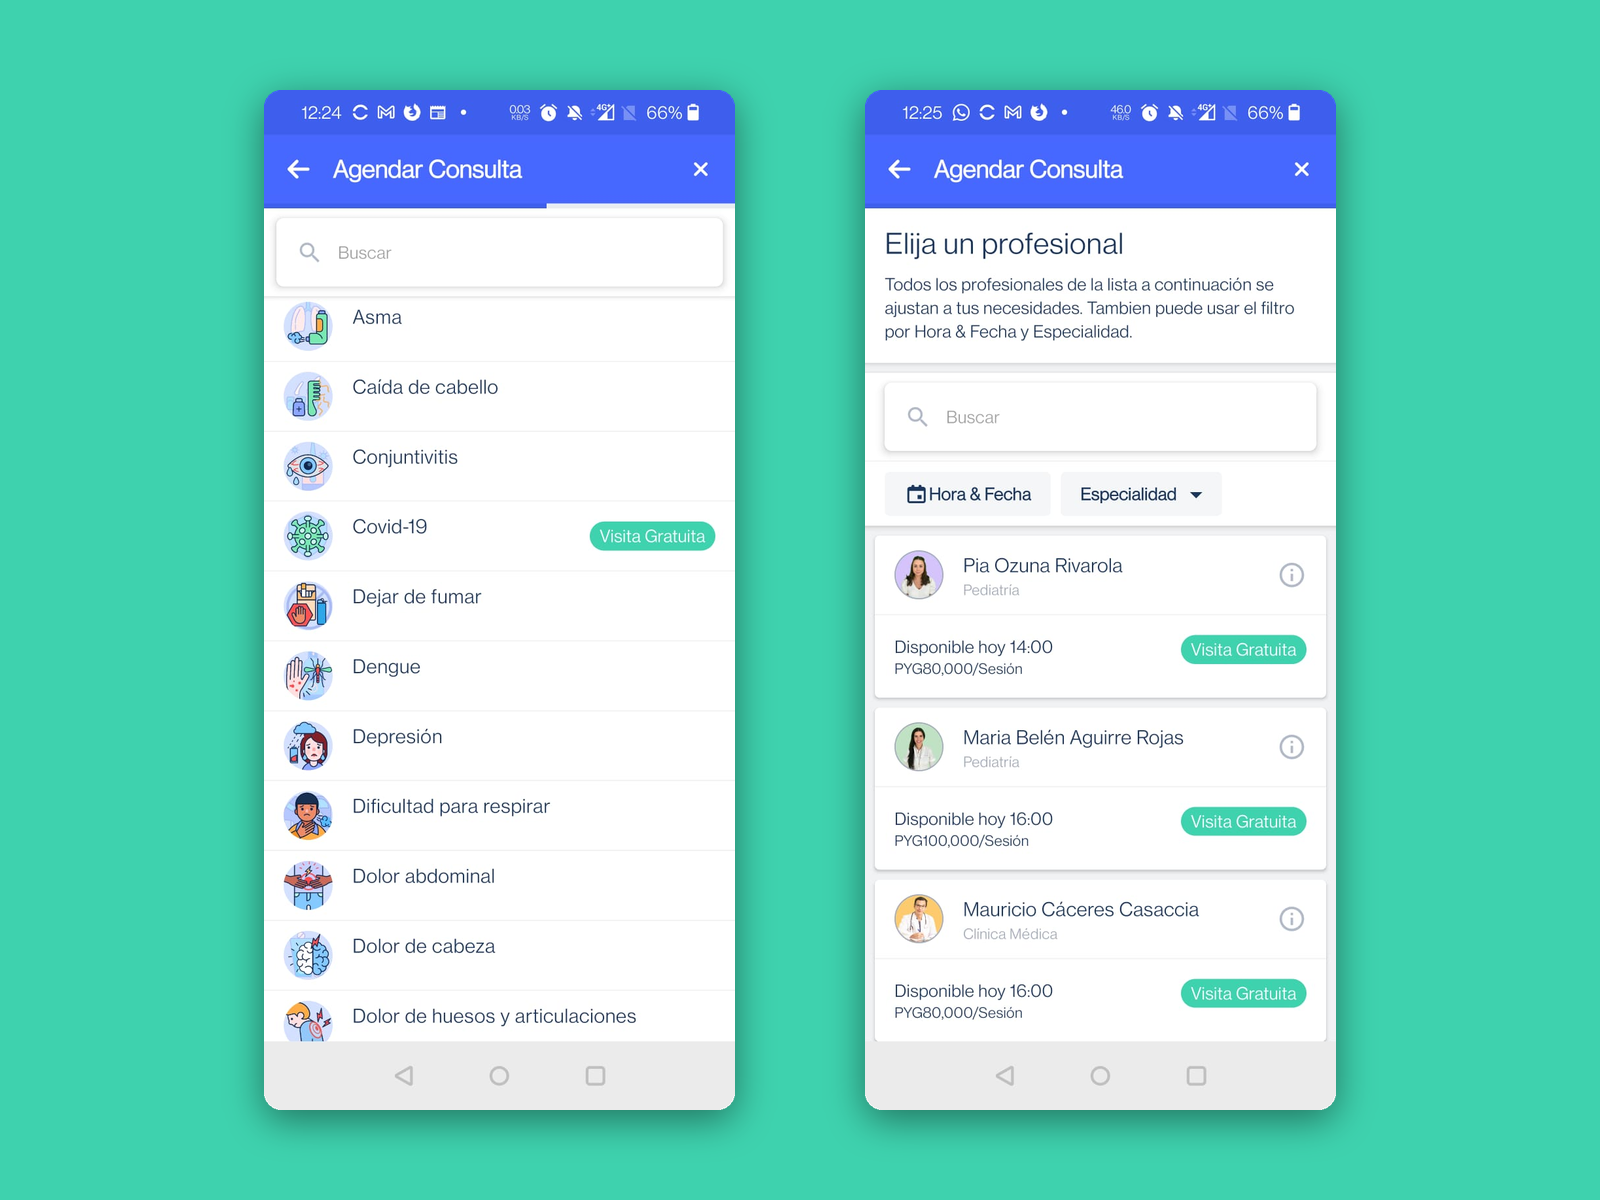
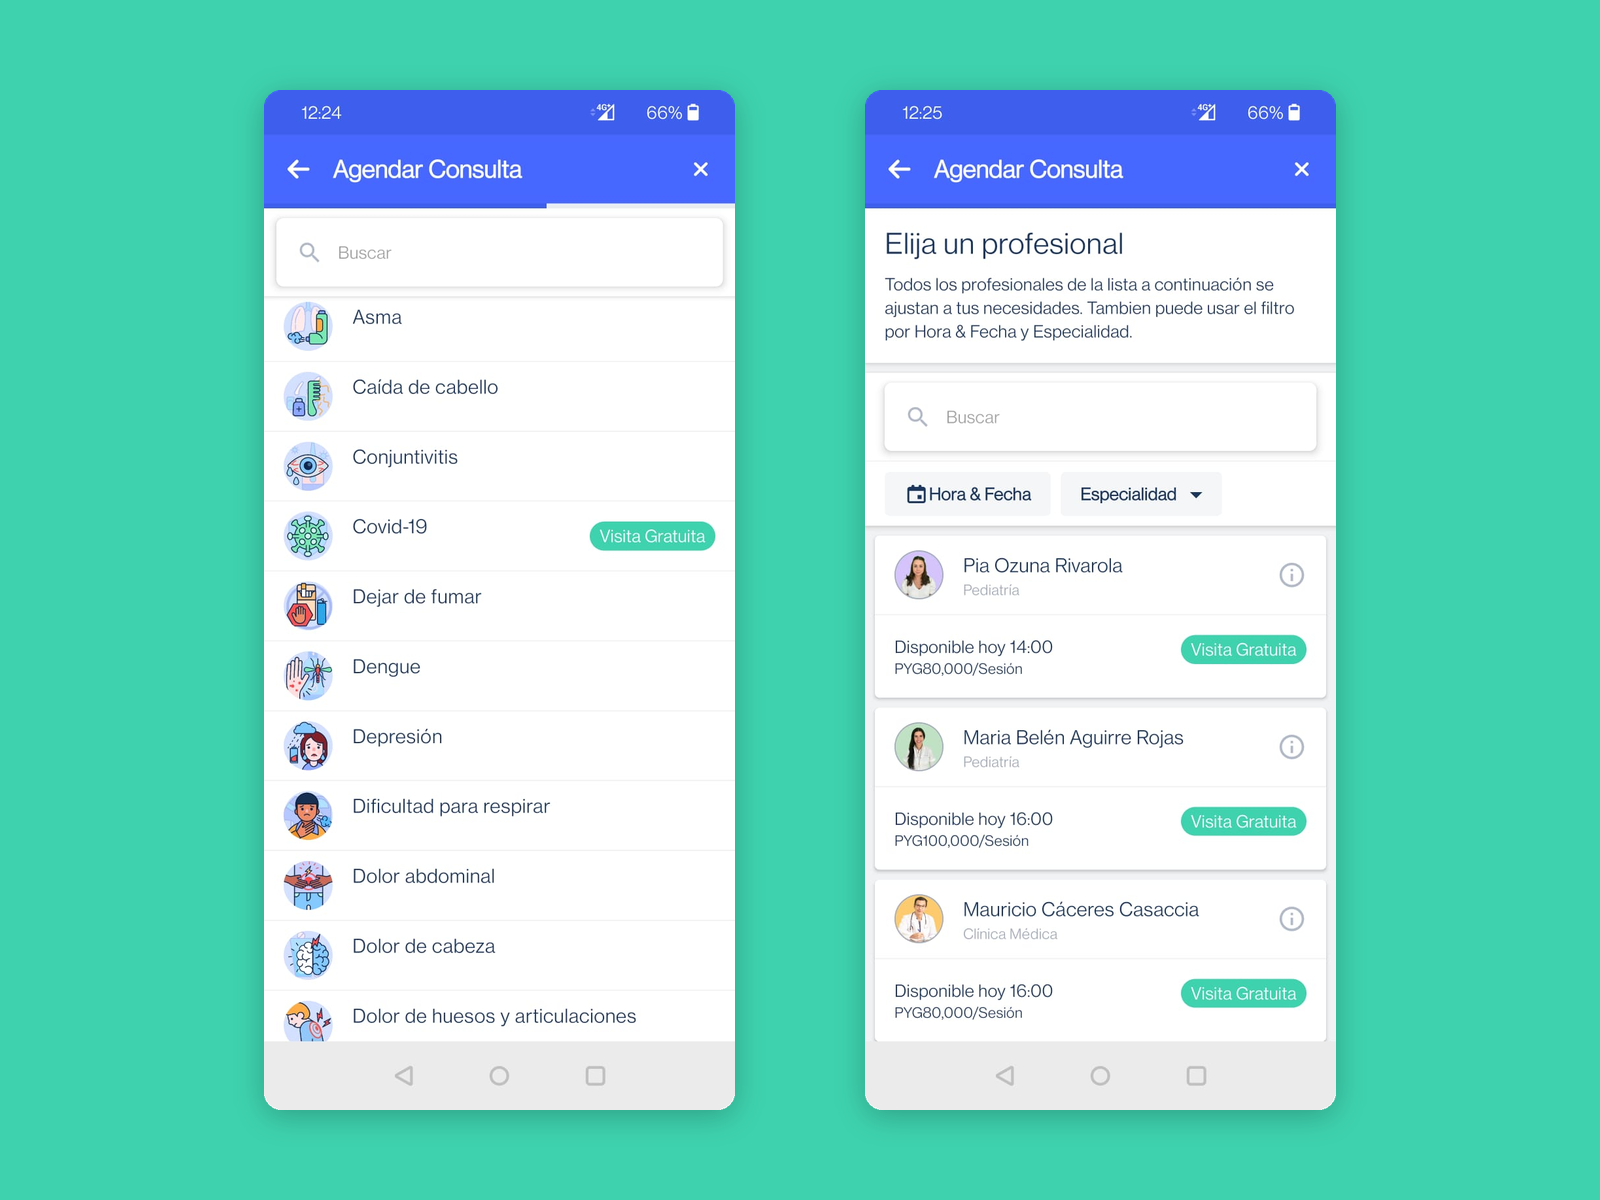
Clinix: your copy throughout, cleaner screens, paired figures
Every section now carries your wording — overview, problem, outcome, goals,
research, discoveries, decisions and the closing section — and the blue and
green review highlighting is gone with it. "Click tests" becomes the standard
"usability tests". Role is Main Designer, Project Lead on the page and the
index card alike.

Status bars are stripped to clock, signal and battery, the drop shadow is
lighter, and the login screen and usability-test photo sit side by side under
Discoveries at matching heights.

diff --git a/portfolio/telemedicine-onboarding/index.html b/portfolio/telemedicine-onboarding/index.html
@@ -25,10 +25,6 @@
      itself rather than with the image's transparent padding. */
   figcaption{margin-top:.75rem;font-size:.875rem;line-height:1.5;color:var(--ink-faint);
     padding-left:2.516%}
-  /* Review highlighting, temporary: blue = translated from Henrik's Swedish,
-     green = rephrased from his English. Delete both rules and the spans to ship. */
-  .tx{color:#1a5fb4}
-  .rp{color:#1a7f4b}
   .back{font-size:.9375rem;color:var(--ink-soft);
     text-decoration:underline;text-decoration-color:#bbb;
     text-underline-offset:3px;text-decoration-thickness:1px}
@@ -73,6 +69,12 @@
   ul.grid-2 + ul li{margin:0 0 .35rem}
   figure{margin:3.5rem 0}
   @media (min-width:1100px){figure{margin-right:-6rem}}
+  /* The two Discoveries figures side by side. Column widths are the images'
+     own aspect ratios, so both render at the same height. */
+  .pair{display:grid;grid-template-columns:.5662fr .8785fr;gap:2rem;
+    align-items:start;margin:3.5rem 0}
+  .pair figure{margin:0}
+  @media (min-width:1100px){.pair{margin-right:-6rem}}
   @media (max-width:860px){
     .wrap{display:block;padding-top:2.5rem}
     aside{position:static;margin-bottom:3.5rem}
@@ -81,6 +83,7 @@
     h1{font-size:2rem}
     h2{font-size:1.625rem}
     ul.grid-2{grid-template-columns:1fr;gap:.9rem}
+    .pair{grid-template-columns:1fr;gap:2.5rem}
   }
 
 </style>
@@ -91,9 +94,9 @@
   <aside>
     <dl class="meta">
   <div><dt>When</dt><dd>2021</dd></div>
-  <div><dt>Role</dt><dd>Main Designer</dd></div>
-  <div><dt>Responsibilities</dt><dd>User research, flows, <span class="tx">spotting the problem as CEO from the numbers after launch</span></dd></div>
-  <div><dt>Teams</dt><dd>Developed together with a team in Ukraine consisting of business analyst, project manager and developers</dd></div>
+  <div><dt>Role</dt><dd>Main Designer, Project Lead</dd></div>
+  <div><dt>Responsibilities</dt><dd>User research, flows</dd></div>
+  <div><dt>Teams</dt><dd>Developed remotely with a team in Ukraine consisting of business analyst, project manager and developers.</dd></div>
 </dl>
     <nav>
     <a href="#overview">Overview</a>
@@ -108,65 +111,67 @@
 <h1>Redesigning onboarding for Clinix, a Paraguayan telemedicine app</h1>
 
 <h2 id="overview">Overview</h2>
-<p class="intro lead">I initiated and carried out a redesign of the onboarding flow for Clinix, a telehealth startup in Paraguay.</p>
+<p class="intro lead">I initiated and carried out a redesign of the onboarding and booking flow for Clinix, a startup in Paraguay providing online doctor's consultations.</p>
 
 <h2 id="problem">Problem</h2>
-<p><span class="tx">After the first launch of the app: none of the downloads were leading to a booked appointment.</span></p>
+<p>After the initial launch of the app, none of Clinix's app downloads were leading to booked appointments.</p>
 
 <figure>
   <img src="img/booking-before-after.png" alt="Two screens side by side. On the left, an alphabetical list of symptoms. On the right, a list of doctors with their specialty, price and next available time, plus filters for date and specialty.">
-  <figcaption>The first booking step before and after.</figcaption>
+  <figcaption>Before: Booking by symptom. After: Booking by doctor's specialty</figcaption>
 </figure>
 
 <h2 id="outcome">Outcome</h2>
 
 <ul class="plain grid-2 big">
-  <li><span class="tx">Users who downloaded the app and then made it to the last step before booking went from around 2% to around 90%.</span></li>
-  <li><span class="tx">New users who went on to book a consultation rose from 0% to around 5%.</span></li>
+  <li>App downloads converted into a booked consultation rose from 0% to ~&nbsp;5%.</li>
+  <li>Number of users that made it to the last step in booking flow went from ~&nbsp;2% to ~&nbsp;90%</li>
 </ul>
 
 <ul class="plain">
-  <li><span class="tx">Users could move around the app without logging in. Login was only necessary at the last step before booking.</span></li>
-  <li><span class="tx">A doctor's appointment was now booked the way they were used to: by the doctor's specialty, not by the patient's symptom.</span></li>
+  <li>Users could now see the app's contents without needing signup.</li>
+  <li>Consultations were now booked the way they were used to: by the doctor's specialty, not by the patient's symptom.</li>
 </ul>
 
 <h2 id="process">Process</h2>
 
 <h3 id="goals">Goals and scope</h3>
-<p><span class="rp">Customers could be deciding not to book for any number of reasons, among them doctor availability, price and the hours on offer. I narrowed the scope down to what could be put down to a bad user flow alone.</span> <strong><span class="rp">Increase the percentage of users who make it from downloading the app to the step where the available doctors and hours are shown.</span></strong></p>
+<p>I started off by narrowing down the scope to: <strong>Increase the percentage of users reaching the last step in the booking flow after downloading the app.</strong> I figured that customers deciding not to book could be due to a lot of factors, including doctor availability, price, available hours. Instead I narrowed down the scope to what could be improved by solely changing the user flow.</p>
 
 <h3 id="research">Research</h3>
 <ul class="dots">
-  <li><span class="tx">Analytics</span></li>
-  <li><span class="tx">Stats from the Play Store and the App Store</span></li>
-  <li><span class="tx">Click tests with 3 users from the target group</span></li>
-  <li><span class="tx">5 user interviews</span></li>
+  <li>Internal app analytics</li>
+  <li>Stats from the Play Store and the App Store</li>
+  <li>Usability tests with 3 users from the target group</li>
+  <li>5 user interviews</li>
 </ul>
 
 <h3 id="discoveries">Discoveries</h3>
 <ul class="plain grid-2">
-  <li>Users got blocked by having to log in on the first screen before being able to see anything of the app</li>
-  <li>Users were confused by the first booking step: to choose their symptom and not the doctor's specialty, which is the way to book a doctor's appointment in Paraguay</li>
+  <li>Users got blocked by having to sign up on the very first screen, before being able to see anything of the app.</li>
+  <li>Users were confused by having to choose their symptom and not the doctor's specialty, which is the standard way to book a consultation in Paraguay</li>
 </ul>
 
+<div class="pair">
 <figure>
   <img src="img/login-wall.png" alt="The first screen of the app: the Clinix logo, an email field, a password field, a log in button and a sign up button.">
-  <figcaption>The screen the app opened on. Nothing could be reached without an account.</figcaption>
+  <figcaption>This was the first and only thing users could see before getting stuck.</figcaption>
 </figure>
 
 <figure>
-  <img src="img/symptom-test.png" alt="A click test in progress: a tester at a desk tapping through the symptom step, headed Describa su síntoma, on a phone held flat on the table.">
+  <img src="img/symptom-test.png" alt="A usability test in progress: a tester at a desk tapping through the symptom step, headed Describa su síntoma, on a phone held flat on the table.">
   <figcaption>All 3 tested users were confused when having to describe their symptoms.</figcaption>
 </figure>
+</div>
 
 <h2 id="decisions">Decisions</h2>
 <ul>
-  <li><span class="item">Move the signup/login to the very last step before confirming and paying for the appointment</span><span class="note">This way users could get more of a feel for what booking an appointment through Clinix was about before being forced to make a decision to sign up.</span></li>
-  <li><span class="item">Rework the structure of the booking flow</span><span class="note">Although a big and costly change, <span class="rp">I considered it necessary</span>. All 3 tested users and 4 out of 5 interviewed users expressed they felt no confidence in the app or in Clinix when they couldn't book in their usual way. Seeing a doctor through an app and not physically was already making them hesitant.</span></li>
+  <li><span class="item">Move the signup/login to the very last step before confirming and paying for the appointment</span><span class="note">This way users could get more of a feel for what consultations through Clinix were about before being forced to make a decision to sign up.</span></li>
+  <li><span class="item">Rework the structure of the booking flow</span><span class="note">Although a big and costly change, I considered it necessary. All 3 tested users and 4 out of 5 interviewed users expressed they felt no confidence in Clinix when they couldn't book in their usual way. Seeing a doctor through an app and not physically was already making them hesitant.</span></li>
 </ul>
 
 <h2 id="differently">What I'd do differently today</h2>
-<p><span class="rp">I didn't design the initial flow, but I reviewed it and signed it off. It was developed together with Paraguayan doctors, but not tested enough on Paraguayan users before launch. The cost of rebuilding could have been avoided by testing with simple methods at an earlier stage.</span></p>
+<p>I was part of the group that reviewed and accepted the original booking flow before implementation, which we did without user testing with actual Paraguayan users. I made that tradeoff since the flow was developed together with Paraguayan doctors, and it was hard to get ahold of Paraguayan users to test on. Knowing the big costs of this mistake, and how little feedback was needed to realize it, I would not start implementation without at least quick user testing from the actual target group today.</p>
   </main>
 </div>
 </body>

diff --git a/portfolio/index.html b/portfolio/index.html
@@ -86,7 +86,7 @@
       <div class="collage"><img src="img/collage-telemedicine.png" draggable="false" alt="Two screens from the booking flow: the symptom list and the list of professionals."></div>
       <div class="meta">
         <p class="title">Redesigning onboarding for Clinix, a Paraguayan telemedicine app</p>
-        <p class="sub">Main Designer<br>2021</p>
+        <p class="sub">Main Designer, Project Lead<br>2021</p>
       </div>
     </a>
 
